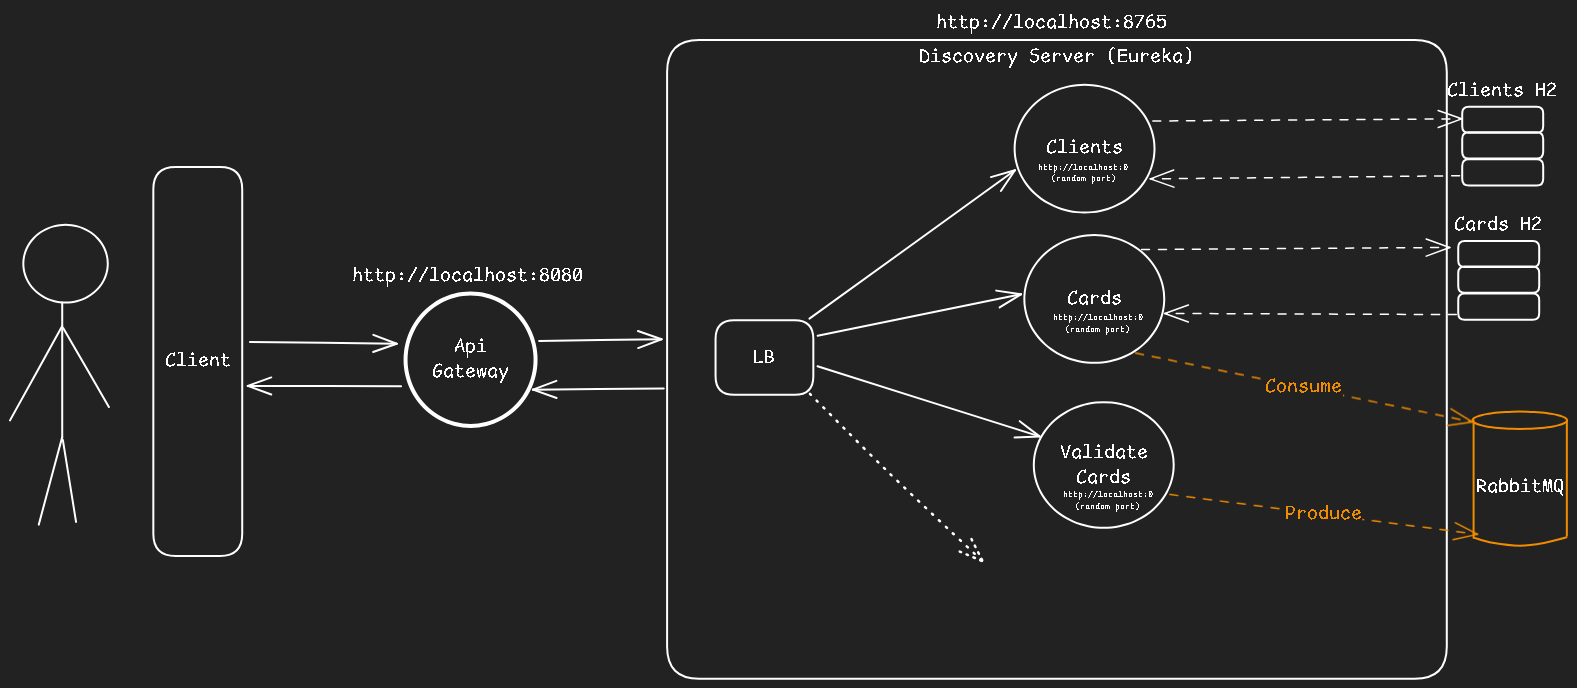
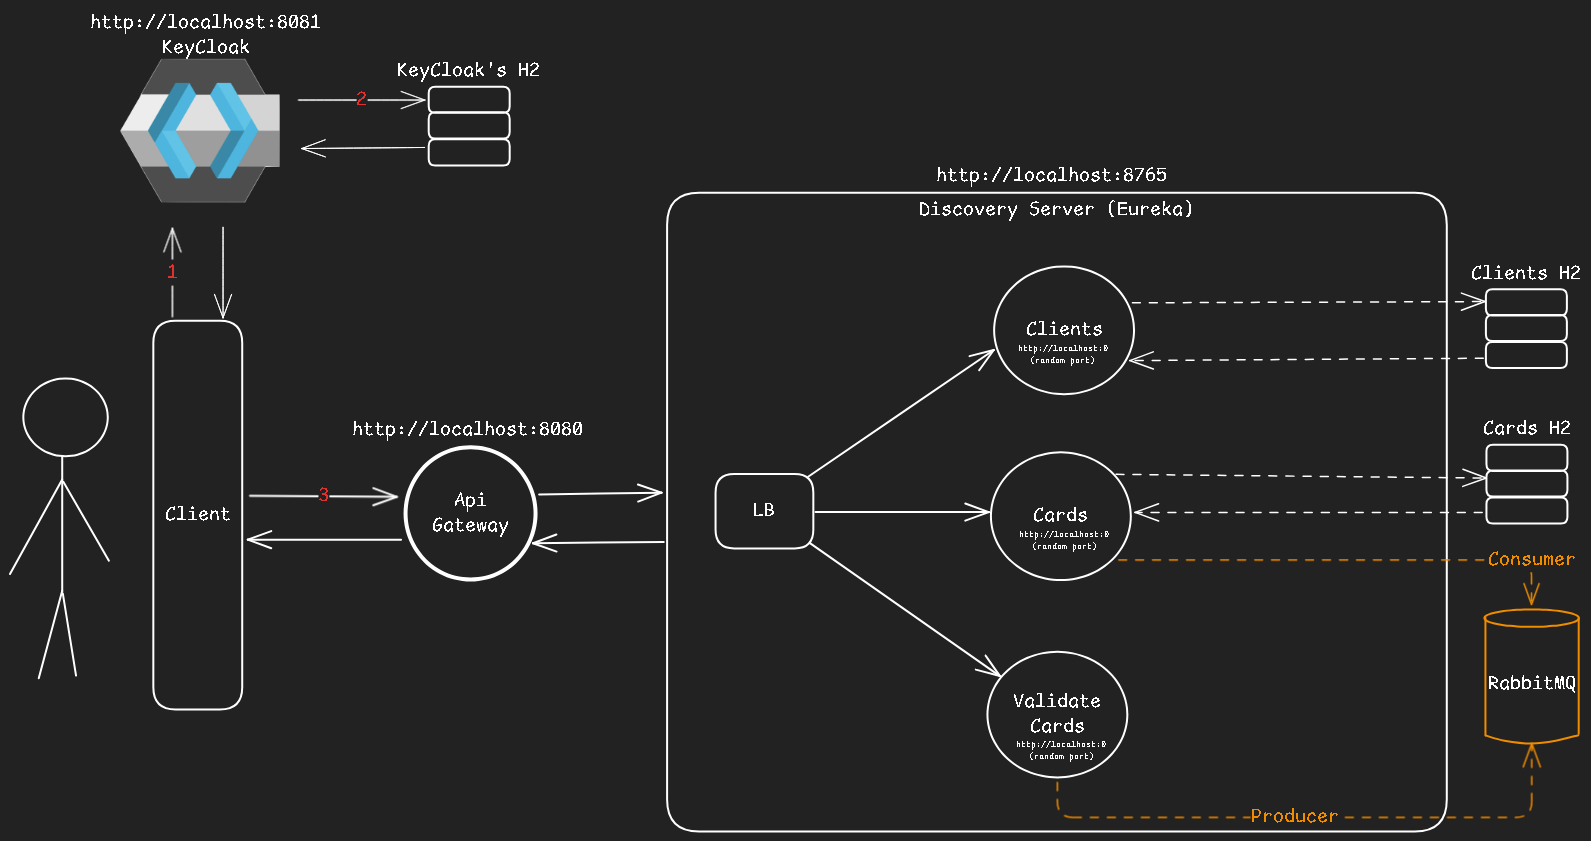
docs(README): updating README.md

diff --git a/README.md b/README.md
@@ -187,6 +187,17 @@ All services expose endpoints under `/api/v1` and are routed through the API Gat
 
 ---
 
+### Keycloak
+
+- Secures endpoints using OAuth2 / OpenID Connect.
+- Default realm: `fintech-realm`
+- Default client: `fintech-client`
+- Users can be created in Keycloak for testing secured endpoints.
+
+port: `8081`
+
+---
+
 ## Example `curl` requests
 
 Register a client:
